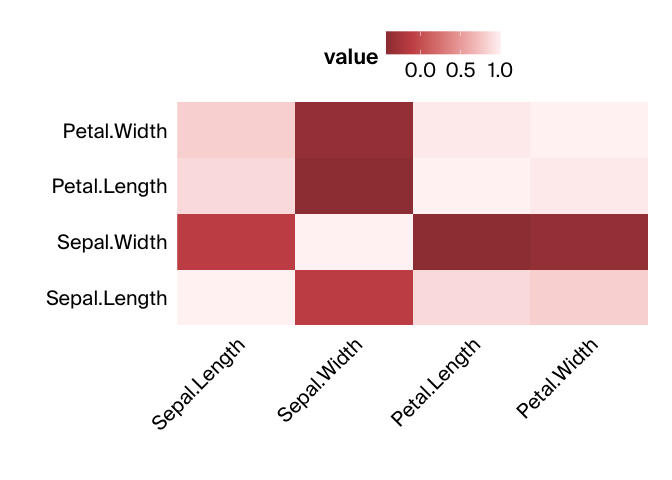
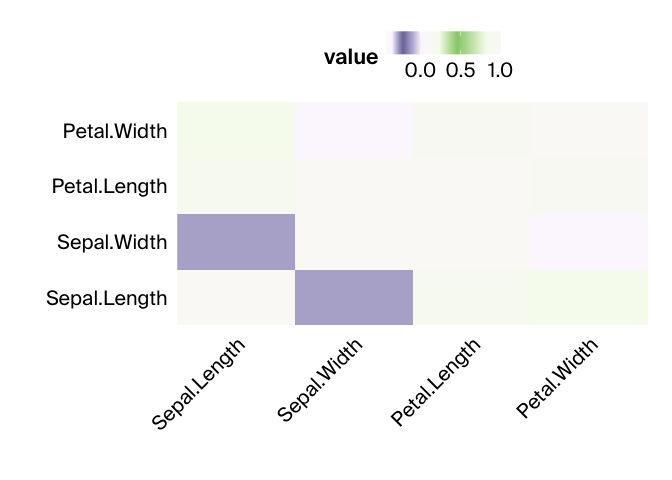
addressing PR comments

Changed region(s): [[0.25, 0.1875, 0.9688, 0.6875], [0.5625, 0.0625, 0.75, 0.125]]

diff --git a/docs/arcadia-users-group/20240730-arcadiathemer/20240730-arcadiathemer.md b/docs/arcadia-users-group/20240730-arcadiathemer/20240730-arcadiathemer.md
@@ -19,11 +19,14 @@ We’ll cover the following topics:
 
 1.  You need `R` installed, and `arcadiathemeR` requires at least R
     version \>= 4.0 (the package was built and tested with version
-    4.3.1). Install `R` for Mac OSx \[here\]
+    4.3.1). Install `R` for Mac OS X
+    [here](https://cran.r-project.org/bin/macosx/).
 
 2.  You can use `RStudio` or a Jupyter notebook for creating plots.
-    Install `RStudio` for Mac OSx \[here\] or Jupyter in a conda
-    environment [following these instructions]()
+    Install `RStudio` for Mac OSx
+    [here](https://posit.co/download/rstudio-desktop/) or Jupyter in a
+    conda environment [following these
+    instructions](https://training.arcadiascience.com/arcadia-users-group/20221024-jupyter-notebooks/lesson/#managing-jupyter-notebook-installations-with-conda).
 
 3.  To use the custom fonts you need to download the `TTF` formatted
     font files and place in the `Users/YOURUSERNAME/Library/Fonts/`
@@ -106,12 +109,13 @@ ggplot(data=diamonds, aes(x=cut, fill=cut)) +
   scale_fill_arcadia()
 ```
 
-![](figures/aug-fonts_correct-1.png)<!-- --> In addition to specifying
-which palette to use in the `scale` function, you can also reverse the
-colors of the scale used with `reverse=TRUE`. You can also use other
-`ggplot2` or `theme` specifications on top of these functions, such as
-moving the position of the legend or modifying the scales to remove
-whitespace between the axis lines and the bars:
+![](figures/aug-fonts_correct-1.png)<!-- -->
+
+In addition to specifying which palette to use in the `scale` function,
+you can also reverse the colors of the scale used with `reverse=TRUE`.
+You can also use other `ggplot2` or `theme` specifications on top of
+these functions, such as moving the position of the legend or modifying
+the scales to remove whitespace between the axis lines and the bars:
 
 ``` r
 ggplot(data=diamonds, aes(x=cut, fill=cut)) +
@@ -122,10 +126,11 @@ ggplot(data=diamonds, aes(x=cut, fill=cut)) +
   theme(legend.position = "bottom")
 ```
 
-![](figures/aug-additional_layers-1.png)<!-- --> In addition to
-reversing the order of the colors used in the palette, you can select
-different indices of colors from the palettes within the `scale`
-function with the `start` and `end` arguments:
+![](figures/aug-additional_layers-1.png)<!-- -->
+
+In addition to reversing the order of the colors used in the palette,
+you can select different indices of colors from the palettes within the
+`scale` function with the `start` and `end` arguments:
 
 ``` r
 ggplot(mtcars, aes(x = hp, fill = as.factor(cyl))) +
@@ -136,10 +141,11 @@ ggplot(mtcars, aes(x = hp, fill = as.factor(cyl))) +
   scale_x_continuous(expand=c(0,0)) # remove whitespace between both axes and the plot
 ```
 
-![](figures/aug-indices-1.png)<!-- --> The `scale` functions are used to
-specify which palettes to use. The `gradient` functions are used to
-access the gradient palettes, which work in the same way as the `scale`
-functions using `color` or `fill`:
+![](figures/aug-indices-1.png)<!-- -->
+
+The `scale` functions are used to specify which palettes to use. The
+`gradient` functions are used to access the gradient palettes, which
+work in the same way as the `scale` functions using `color` or `fill`:
 
 ``` r
 ggplot(data = mtcars, aes(x = hp, y = mpg, color = hp)) +
@@ -148,10 +154,11 @@ ggplot(data = mtcars, aes(x = hp, y = mpg, color = hp)) +
  gradient_color_arcadia(palette_name = "lisafrank")
 ```
 
-![](figures/aug-gradient-1.png)<!-- --> There are also bicolor gradients
-available that are useful for heatmap plots. You can also remove the
-background color with `background=FALSE`, which is recommended when
-exporting plots, which is described below.
+![](figures/aug-gradient-1.png)<!-- -->
+
+There are also bicolor gradients available that are useful for heatmap
+plots. You can also remove the background color with `background=FALSE`,
+which is recommended when exporting plots, which is described below.
 
 ``` r
 library(reshape2)
@@ -165,12 +172,20 @@ melted_cor_matrix <- (melt(cor_matrix))
 ggplot(melted_cor_matrix, aes(x=Var1, y=Var2, fill=value)) +
   geom_tile() +
   theme_arcadia(x_axis_type = "categorical", y_axis_type = "categorical", background = FALSE) +
-  gradient_fill_arcadia(palette_name = "reds") + 
+  gradient_fill_arcadia(palette_name = "purplegreen") + 
   theme(axis.text.x = element_text(angle = 45, hjust = 1),
         legend.position = "top", axis.line = element_blank()) +
   labs(x = "", y = "") +
   scale_y_discrete(expand=c(0,0)) +
   scale_x_discrete(expand = c(0,0))
+#> Warning in regularize.values(x, y, ties, missing(ties), na.rm = na.rm):
+#> collapsing to unique 'x' values
+
+#> Warning in regularize.values(x, y, ties, missing(ties), na.rm = na.rm):
+#> collapsing to unique 'x' values
+
+#> Warning in regularize.values(x, y, ties, missing(ties), na.rm = na.rm):
+#> collapsing to unique 'x' values
 ```
 
 ![](figures/aug-heatmap-1.png)<!-- -->
@@ -178,10 +193,7 @@ ggplot(melted_cor_matrix, aes(x=Var1, y=Var2, fill=value)) +
 ## Accessing palettes and specific colors
 
 To view all the color palette options and the individual hex codes that
-comprise each palette, you can view these with `show_arcadia_palettes()`
-or `show_arcadia_gradients()`. The gradients also show the positions for
-each individual color in the gradient. You can use these lists of hex
-codes to create custom or reordered sets of palettes.
+comprise each palette, you can view these with `show_arcadia_palettes`:
 
 ``` r
 show_arcadia_palettes()
@@ -228,6 +240,14 @@ show_arcadia_palettes()
 #> 
 #> $cool_gray_shades
 #> [1] "#E6EAED" "#CAD4DB" "#ABBAC4" "#8A99AD" "#687787"
+```
+
+To view gradient options and colors, use `show_arcadia_gradients`. The
+gradients also show the positions for each individual color in the
+gradient. You can use these lists of hex codes to create custom or
+reordered sets of palettes.
+
+``` r
 show_arcadia_gradients()
 #> $magma
 #> $magma$colors
